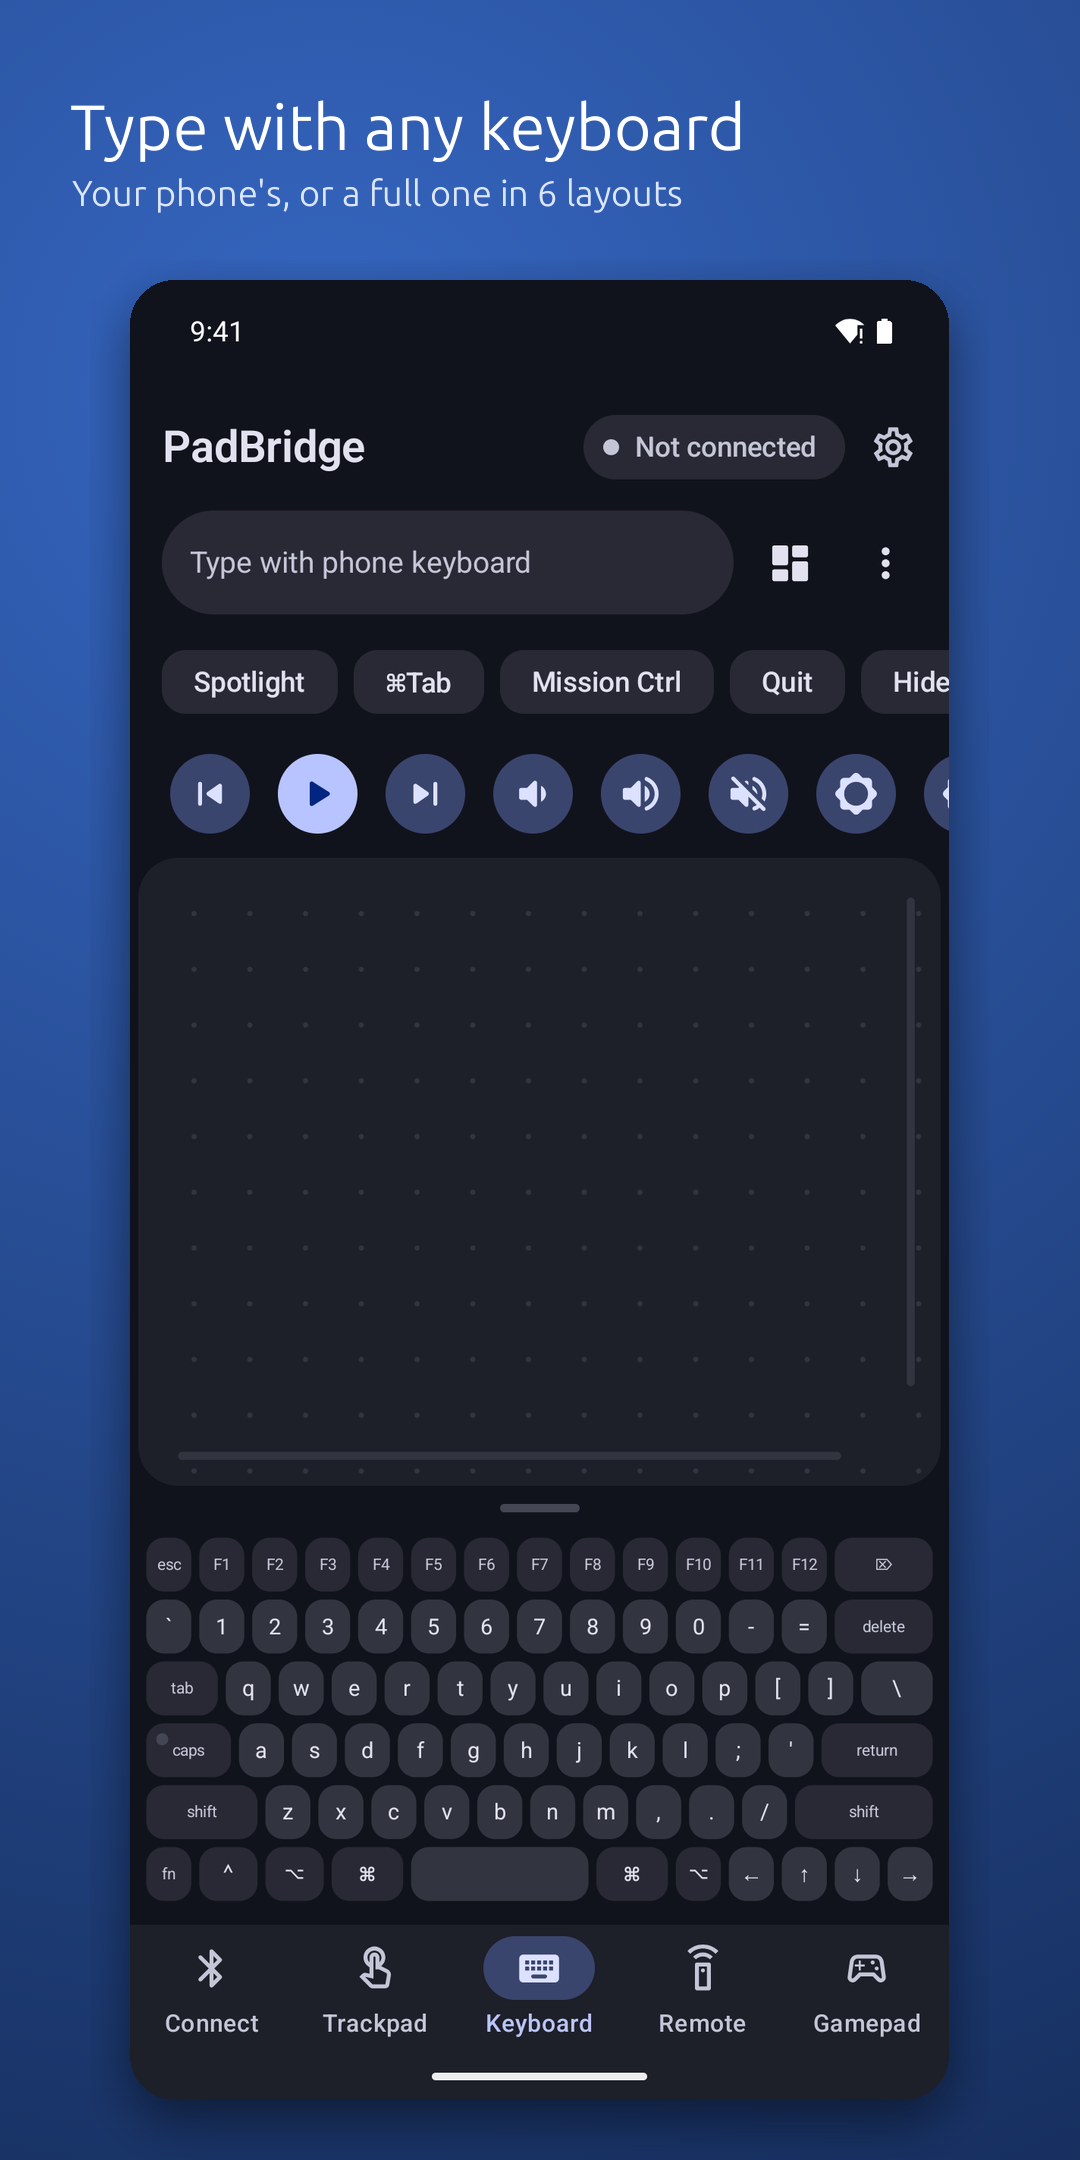
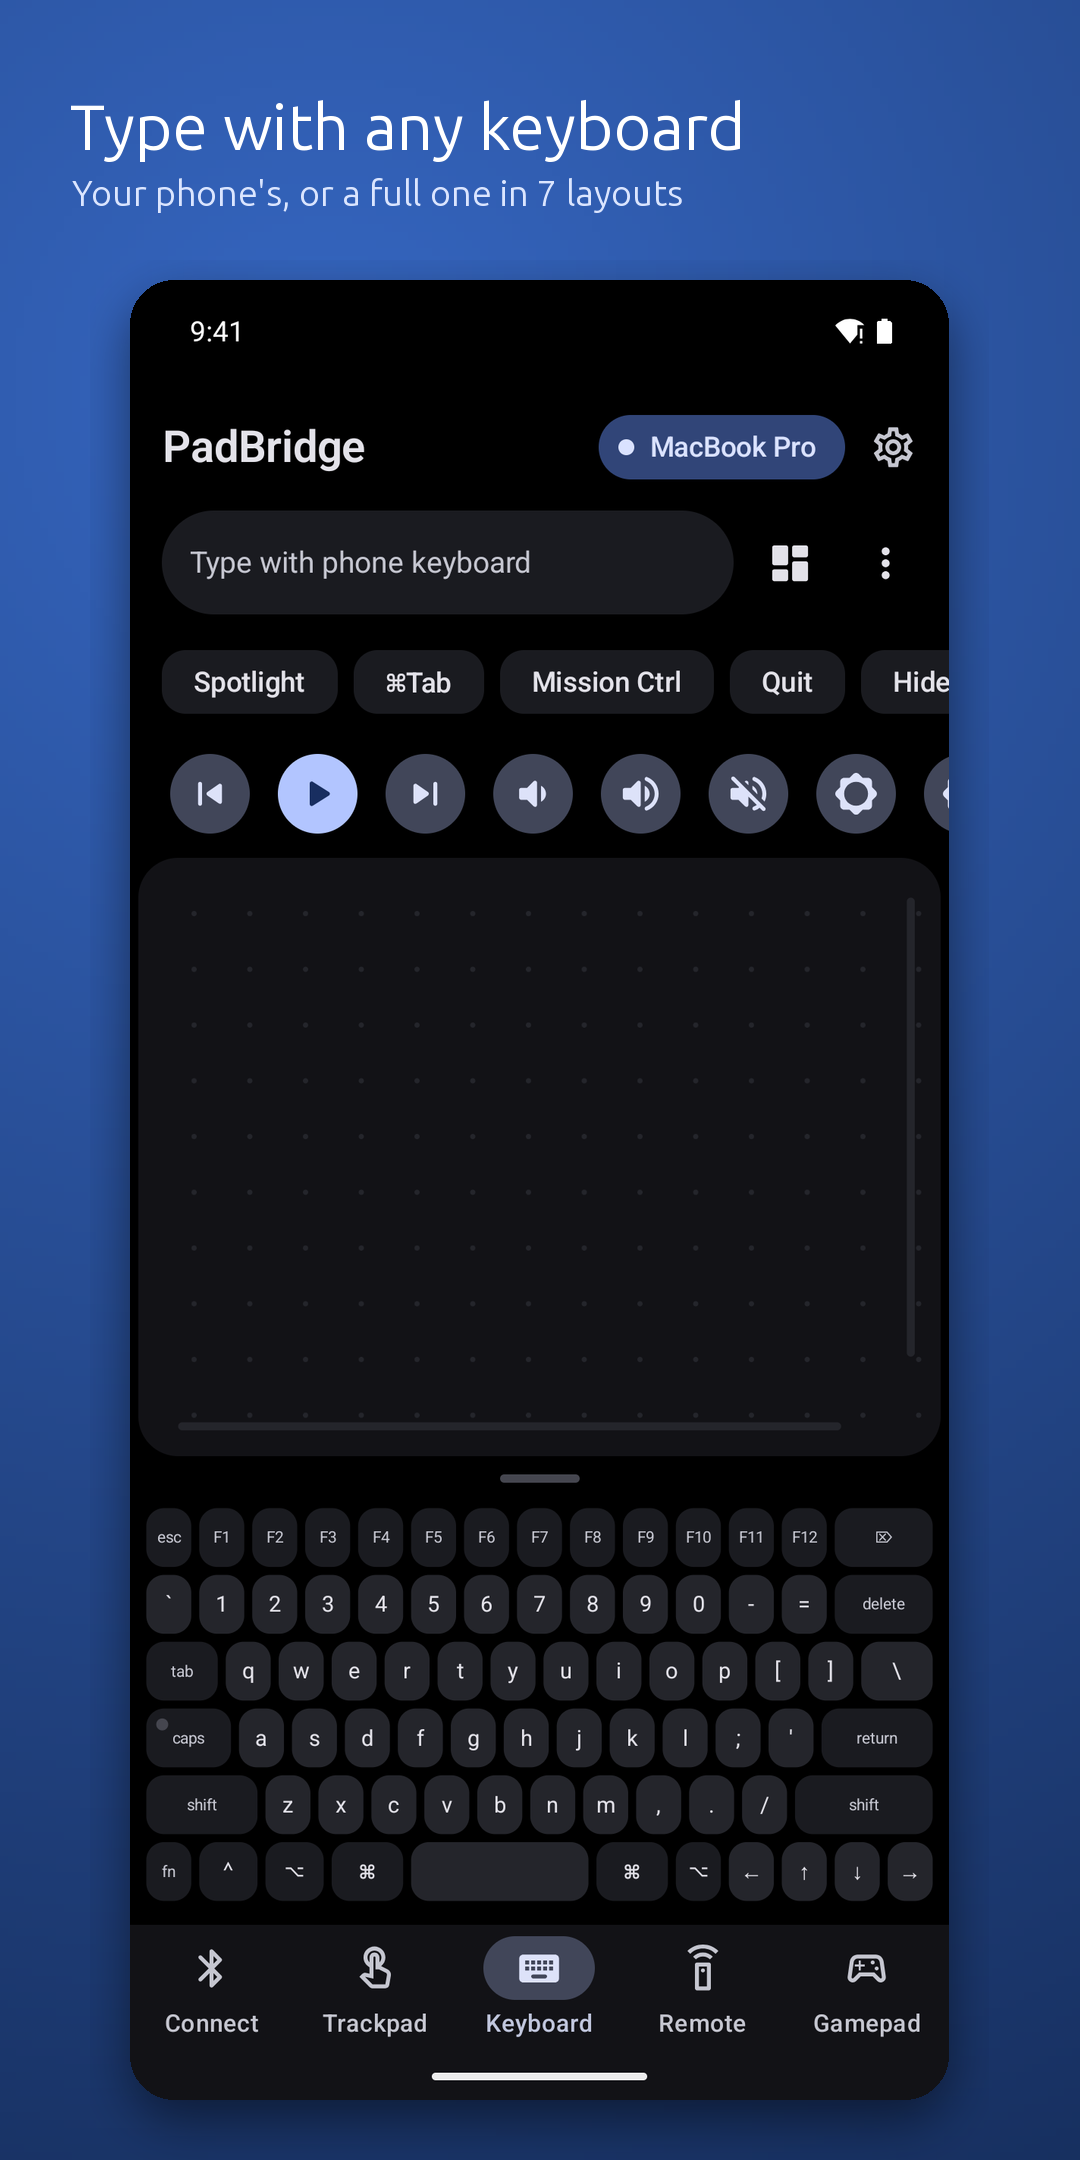
Play Store screenshots for 1.3.0 (phone + 7/10-inch tablet), renderer script

Changed region(s): [[0.1222, 0.1241, 0.8861, 0.8995], [0.4889, 0.062, 0.5194, 0.0931]]

diff --git a/app/src/main/java/dev/padbridge/MainActivity.kt b/app/src/main/java/dev/padbridge/MainActivity.kt
@@ -195,6 +195,8 @@ class MainActivity : ComponentActivity(), HidManager.Listener {
         volumeKey(keyCode, event, false) || super.onKeyUp(keyCode, event)
 
     fun versionName(): String = try {
-        packageManager.getPackageInfo(packageName, 0).versionName ?: "?"
+        (packageManager.getPackageInfo(packageName, 0).versionName ?: "?")
+            // Screenshot demo (debug only): show the version as users see it.
+            .let { if (HidManager.demo) it.removeSuffix("-dev") else it }
     } catch (_: Exception) { "?" }
 }

diff --git a/scripts/play_images.py b/scripts/play_images.py
@@ -1,0 +1,146 @@
+"""
+Renders the Play Store graphics into fastlane/metadata/android/en-US/images: the icon, the feature graphic, and
+captioned phone and tablet screenshots from raw captures (scripts/screenshots.sh, demo mode).
+
+    python3 scripts/play_images.py <dir with raw_*.png>
+
+Raw files: raw_trackpad, raw_keyboard, raw_remote, raw_connect, raw_aod, raw_settings, raw_gamepad (phone) and
+raw_tab_deck, raw_tab_connect, raw_tab_remote (tablet, landscape). Needs Pillow and the Ubuntu font family.
+"""
+import os, sys, math
+from PIL import Image, ImageDraw, ImageFont, ImageFilter
+OUT = os.path.join(os.path.dirname(os.path.abspath(__file__)), "..", "fastlane/metadata/android/en-US/images")
+os.chdir(sys.argv[1] if len(sys.argv) > 1 else ".")
+FB = "/usr/share/fonts/truetype/ubuntu/Ubuntu-B.ttf"
+FR = "/usr/share/fonts/truetype/ubuntu/Ubuntu-R.ttf" if os.path.exists("/usr/share/fonts/truetype/ubuntu/Ubuntu-R.ttf") else "/usr/share/fonts/truetype/ubuntu/Ubuntu-L.ttf"
+C_IN, C_OUT = (0x36, 0x67, 0xC2), (0x10, 0x23, 0x49)
+LIGHT = (0xDC, 0xE6, 0xFF)
+
+def radial(w, h, cx, cy, r):
+    img = Image.new("RGB", (w, h))
+    px = img.load()
+    for y in range(h):
+        for x in range(w):
+            t = min(1.0, math.hypot(x - cx, y - cy) / r)
+            px[x, y] = tuple(int(C_IN[i] + (C_OUT[i] - C_IN[i]) * t) for i in range(3))
+    return img
+
+def radial_fast(w, h, cx, cy, r):
+    s = 8
+    small = radial(max(1, w // s), max(1, h // s), cx / s, cy / s, r / s)
+    return small.resize((w, h), Image.BICUBIC)
+
+def glyph(size, color=LIGHT):
+    """The icon foreground (108-unit viewport) drawn at `size` px: pad with split buttons, two touch points, arc."""
+    k = size / 108.0
+    S = 4  # supersample
+    im = Image.new("L", (size * S, size * S), 0)
+    d = ImageDraw.Draw(im)
+    f = lambda v: v * k * S
+    d.rounded_rectangle([f(30), f(34), f(78), f(74)], radius=f(9), fill=255)
+    d.rectangle([f(30), f(62.6), f(78), f(64.4)], fill=0)
+    d.rectangle([f(53.1), f(64.4), f(54.9), f(74)], fill=0)
+    for cx, cy in [(47, 49), (60, 46)]:
+        d.ellipse([f(cx - 4.5), f(cy - 4.5), f(cx + 4.5), f(cy + 4.5)], fill=0)
+    # wireless arc: quadratic M44,28.5 Q54,22.5 64,28.5, stroke 2.6
+    pts = []
+    for i in range(41):
+        t = i / 40
+        x = (1 - t) ** 2 * 44 + 2 * (1 - t) * t * 54 + t * t * 64
+        y = (1 - t) ** 2 * 28.5 + 2 * (1 - t) * t * 22.5 + t * t * 28.5
+        pts.append((f(x), f(y)))
+    d.line(pts, fill=255, width=int(f(2.6)), joint="curve")
+    for p in (pts[0], pts[-1]):
+        r = f(1.3); d.ellipse([p[0] - r, p[1] - r, p[0] + r, p[1] + r], fill=255)
+    mask = im.resize((size, size), Image.LANCZOS)
+    layer = Image.new("RGBA", (size, size), color + (0,))
+    layer.putalpha(mask)
+    return layer
+
+# ---- 512 x 512 icon (Play applies its own rounded mask; full-bleed square)
+icon = radial_fast(512, 512, 256, 208, 360).convert("RGBA")
+icon.alpha_composite(glyph(512))
+icon.convert("RGB").save(f"{OUT}/icon.png")
+
+# ---- 1024 x 500 feature graphic
+fg = radial_fast(1024, 500, 300, 230, 820).convert("RGBA")
+g = glyph(360)
+fg.alpha_composite(g, (30, 70))
+d = ImageDraw.Draw(fg)
+d.text((400, 150), "PadBridge", font=ImageFont.truetype(FB, 92), fill=(255, 255, 255))
+d.text((404, 268), "Your phone as a Bluetooth trackpad,", font=ImageFont.truetype(FR, 32), fill=LIGHT)
+d.text((404, 310), "keyboard, TV remote and gamepad", font=ImageFont.truetype(FR, 32), fill=LIGHT)
+fg.convert("RGB").save(f"{OUT}/featureGraphic.png")
+
+# ---- Framed screenshots, exactly 2:1 (Play's max aspect ratio)
+def rounded(img, r):
+    m = Image.new("L", img.size, 0)
+    ImageDraw.Draw(m).rounded_rectangle([0, 0, img.size[0] - 1, img.size[1] - 1], radius=r, fill=255)
+    out = img.convert("RGBA"); out.putalpha(m); return out
+
+def frame(src, caption, sub, out, landscape=False):
+    shot = Image.open(src).convert("RGB")
+    W, H = (2160, 1080) if landscape else (1080, 2160)
+    canvas = radial_fast(W, H, W * 0.3, H * 0.18, max(W, H) * 1.1).convert("RGBA")
+    d = ImageDraw.Draw(canvas)
+    if landscape:
+        d.text((90, 70), caption, font=ImageFont.truetype(FB, 64), fill=(255, 255, 255))
+        d.text((92, 150), sub, font=ImageFont.truetype(FR, 36), fill=LIGHT)
+        th = H - 240 - 50; tw = int(th * shot.width / shot.height)
+        x, y = (W - tw) // 2, 240
+    else:
+        d.text((70, 90), caption, font=ImageFont.truetype(FB, 64), fill=(255, 255, 255))
+        d.text((72, 172), sub, font=ImageFont.truetype(FR, 36), fill=LIGHT)
+        # Fit the whole screenshot below the caption.
+        th = H - 280 - 60; tw = int(th * shot.width / shot.height)
+        x, y = (W - tw) // 2, 280
+    s = rounded(shot.resize((tw, th), Image.LANCZOS), 44)
+    shadow = Image.new("RGBA", (tw + 80, th + 80), (0, 0, 0, 0))
+    ImageDraw.Draw(shadow).rounded_rectangle([40, 40, tw + 40, th + 40], radius=48, fill=(0, 0, 0, 120))
+    canvas.alpha_composite(shadow.filter(ImageFilter.GaussianBlur(24)), (x - 40, y - 20))
+    canvas.alpha_composite(s, (x, y))
+    canvas.convert("RGB").save(out)
+
+shots = [
+    ("raw_trackpad.png", "A real multi-touch trackpad", "Scroll, pinch, 3- and 4-finger gestures"),
+    ("raw_keyboard.png", "Type with any keyboard", "Your phone's, or a full one in 7 layouts"),
+    ("raw_remote.png", "TV remote clickpad", "Android TV, Apple TV, Mac, PC and slides"),
+    ("raw_connect.png", "Nothing to install", "Pair once over Bluetooth, then tap Connect"),
+    ("raw_aod.png", "Dims itself when idle", "Outlined on black, minimum brightness, still works"),
+    ("raw_settings.png", "Make it yours", "Remap gestures per Windows, macOS, Linux"),
+]
+dst = f"{OUT}/phoneScreenshots"
+for f in os.listdir(dst): os.remove(os.path.join(dst, f))
+for i, (f, c, sub) in enumerate(shots, 1):
+    frame(f, c, sub, f"{dst}/{i}.png")
+frame("raw_gamepad.png", "Gamepad presets", "Racing, first person, third person, retro", f"{dst}/7.png", landscape=True)
+
+# ---- Tablet: 16:9 canvas, caption on top, the 16:10 screenshot below.
+def frame_tablet(src, caption, sub, out):
+    shot = Image.open(src).convert("RGB")
+    W, H = 2560, 1440
+    canvas = radial_fast(W, H, W * 0.3, H * 0.18, max(W, H) * 1.1).convert("RGBA")
+    d = ImageDraw.Draw(canvas)
+    d.text((110, 70), caption, font=ImageFont.truetype(FB, 72), fill=(255, 255, 255))
+    d.text((112, 162), sub, font=ImageFont.truetype(FR, 40), fill=LIGHT)
+    th = H - 250 - 50; tw = int(th * shot.width / shot.height)
+    x, y = (W - tw) // 2, 250
+    s = rounded(shot.resize((tw, th), Image.LANCZOS), 36)
+    shadow = Image.new("RGBA", (tw + 80, th + 80), (0, 0, 0, 0))
+    ImageDraw.Draw(shadow).rounded_rectangle([40, 40, tw + 40, th + 40], radius=40, fill=(0, 0, 0, 120))
+    canvas.alpha_composite(shadow.filter(ImageFilter.GaussianBlur(24)), (x - 40, y - 20))
+    canvas.alpha_composite(s, (x, y))
+    canvas.convert("RGB").save(out)
+
+tablet = [
+    ("raw_tab_deck.png", "A laptop on your tablet", "Keyboard with a trackpad below, resizable and movable"),
+    ("raw_tab_connect.png", "Built for big screens", "Two-pane layouts, navigation rail, S Pen support"),
+    ("raw_tab_remote.png", "TV remote clickpad", "Android TV, Apple TV, Mac, PC and slides"),
+]
+for kind in ("sevenInchScreenshots", "tenInchScreenshots"):
+    tdst = f"{OUT}/{kind}"
+    os.makedirs(tdst, exist_ok=True)
+    for f in os.listdir(tdst): os.remove(os.path.join(tdst, f))
+    for i, (f, c, sub) in enumerate(tablet, 1):
+        frame_tablet(f, c, sub, f"{tdst}/{i}.png")
+print("done")

diff --git a/docs/play-store-listing.md b/docs/play-store-listing.md
@@ -183,4 +183,6 @@ Haptic feedback for clicks, key presses and gamepad buttons. Can be turned off i
 - Upload with an upload key; enroll in Play App Signing. Never upload a build signed with the shared dev key.
 - Screenshots: see [screenshots/README.md](screenshots/README.md).
 - Store-ready assets and text live in `fastlane/metadata/android/en-US/` (fastlane supply layout): icon 512², feature
-  graphic 1024×500, seven phone screenshots, title, descriptions and per-versionCode changelogs.
+  graphic 1024×500, seven phone screenshots, three 7-inch and three 10-inch tablet screenshots, title, descriptions
+  and per-versionCode changelogs. `scripts/play_images.py` renders the captioned images from raw demo-mode captures
+  (`scripts/screenshots.sh`).
